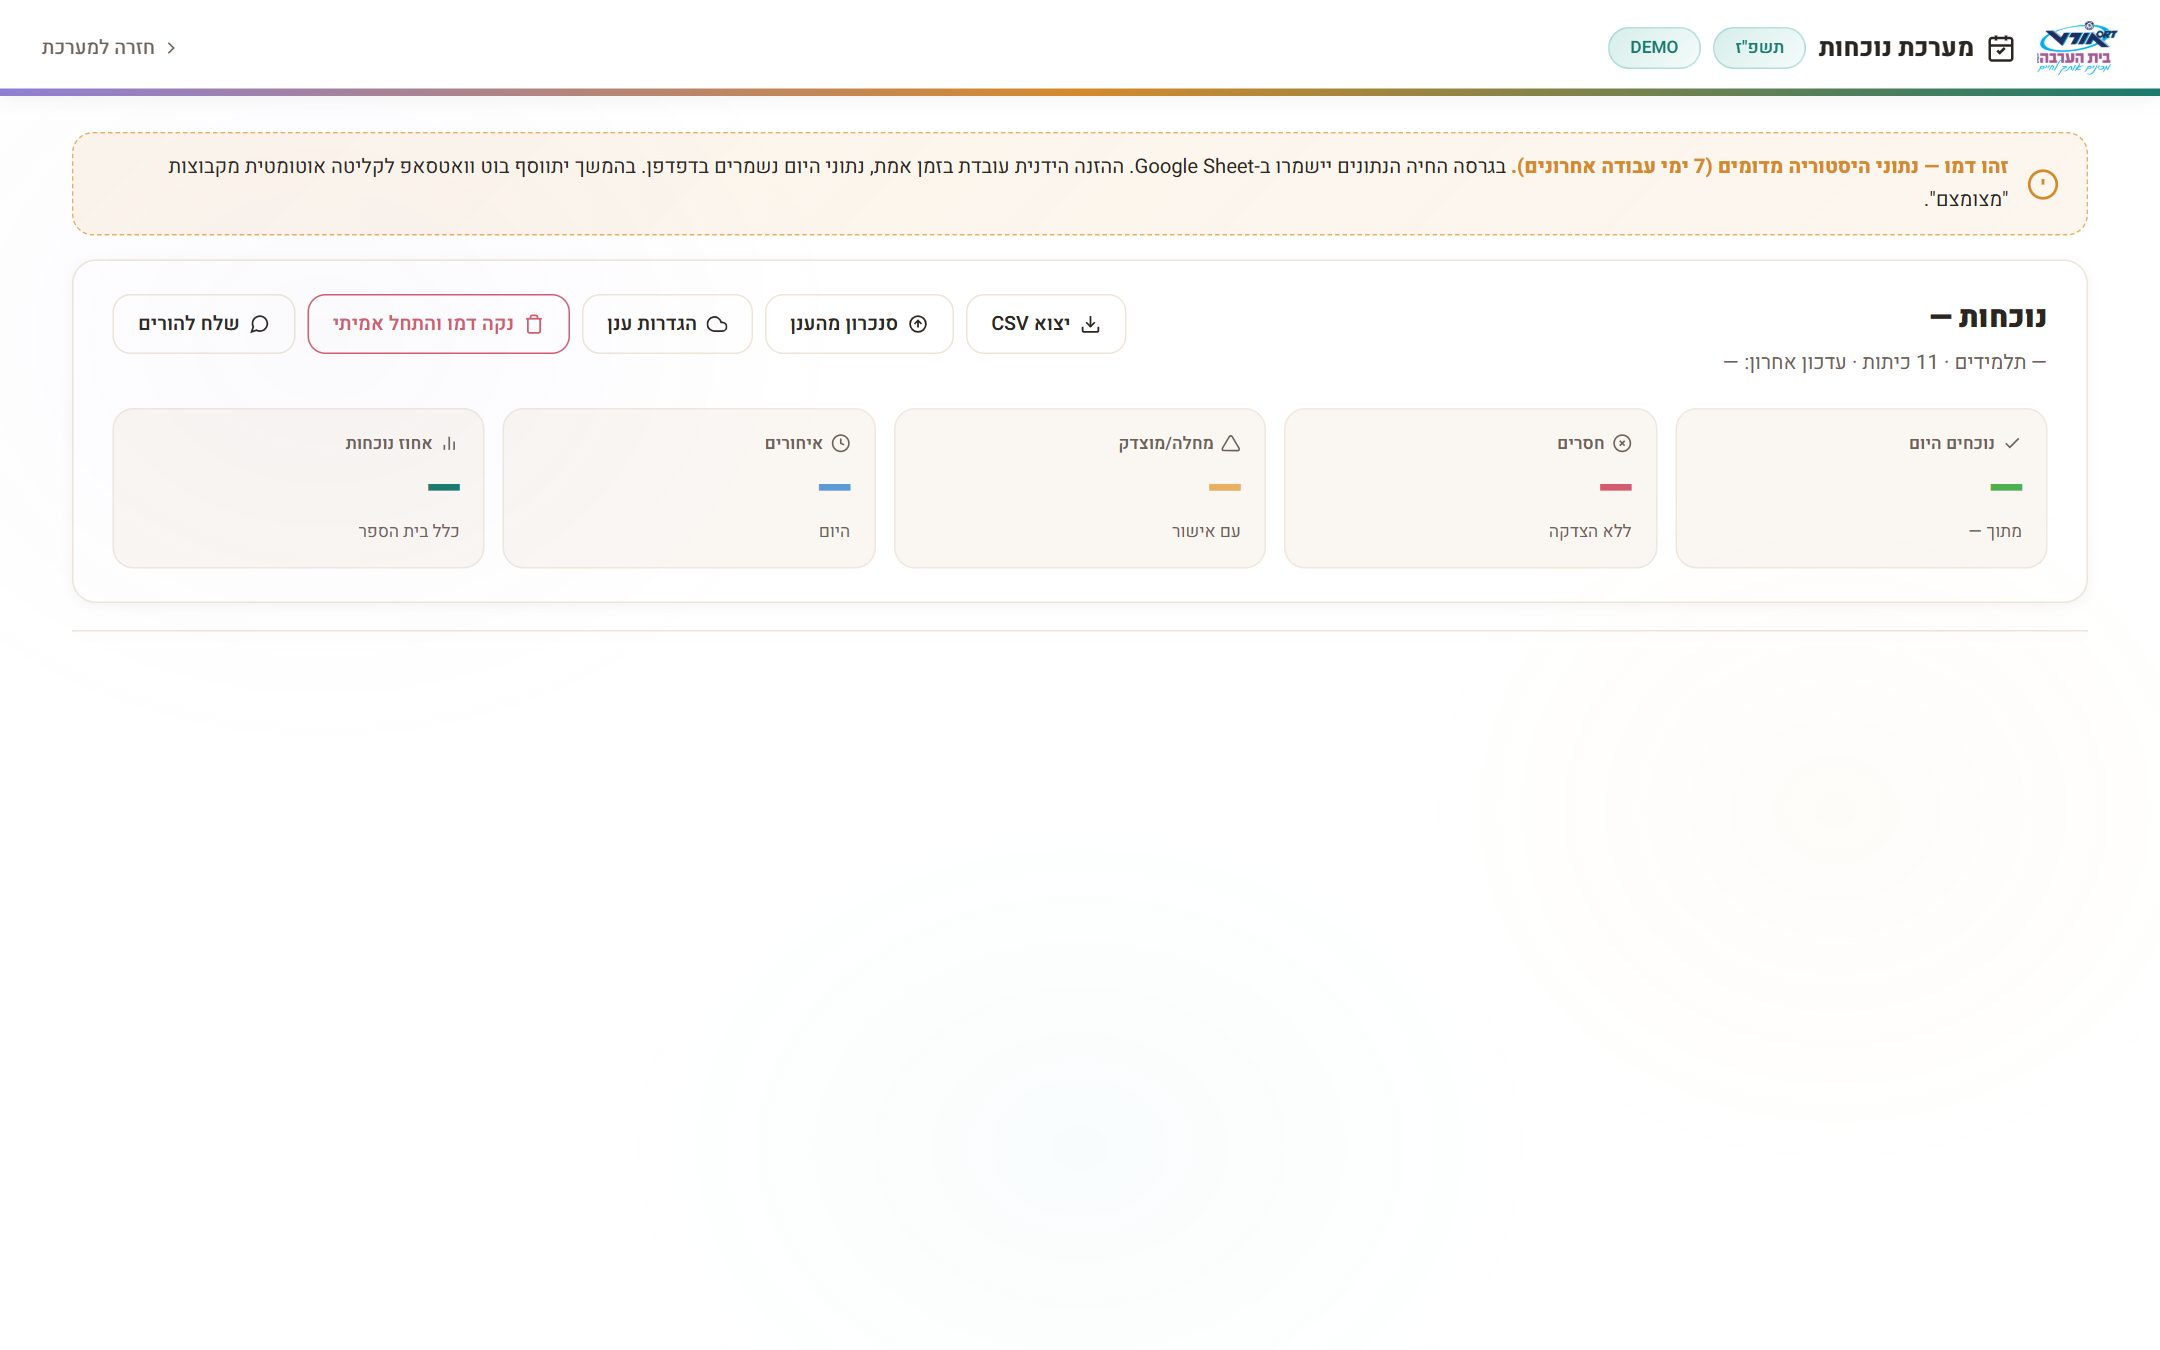
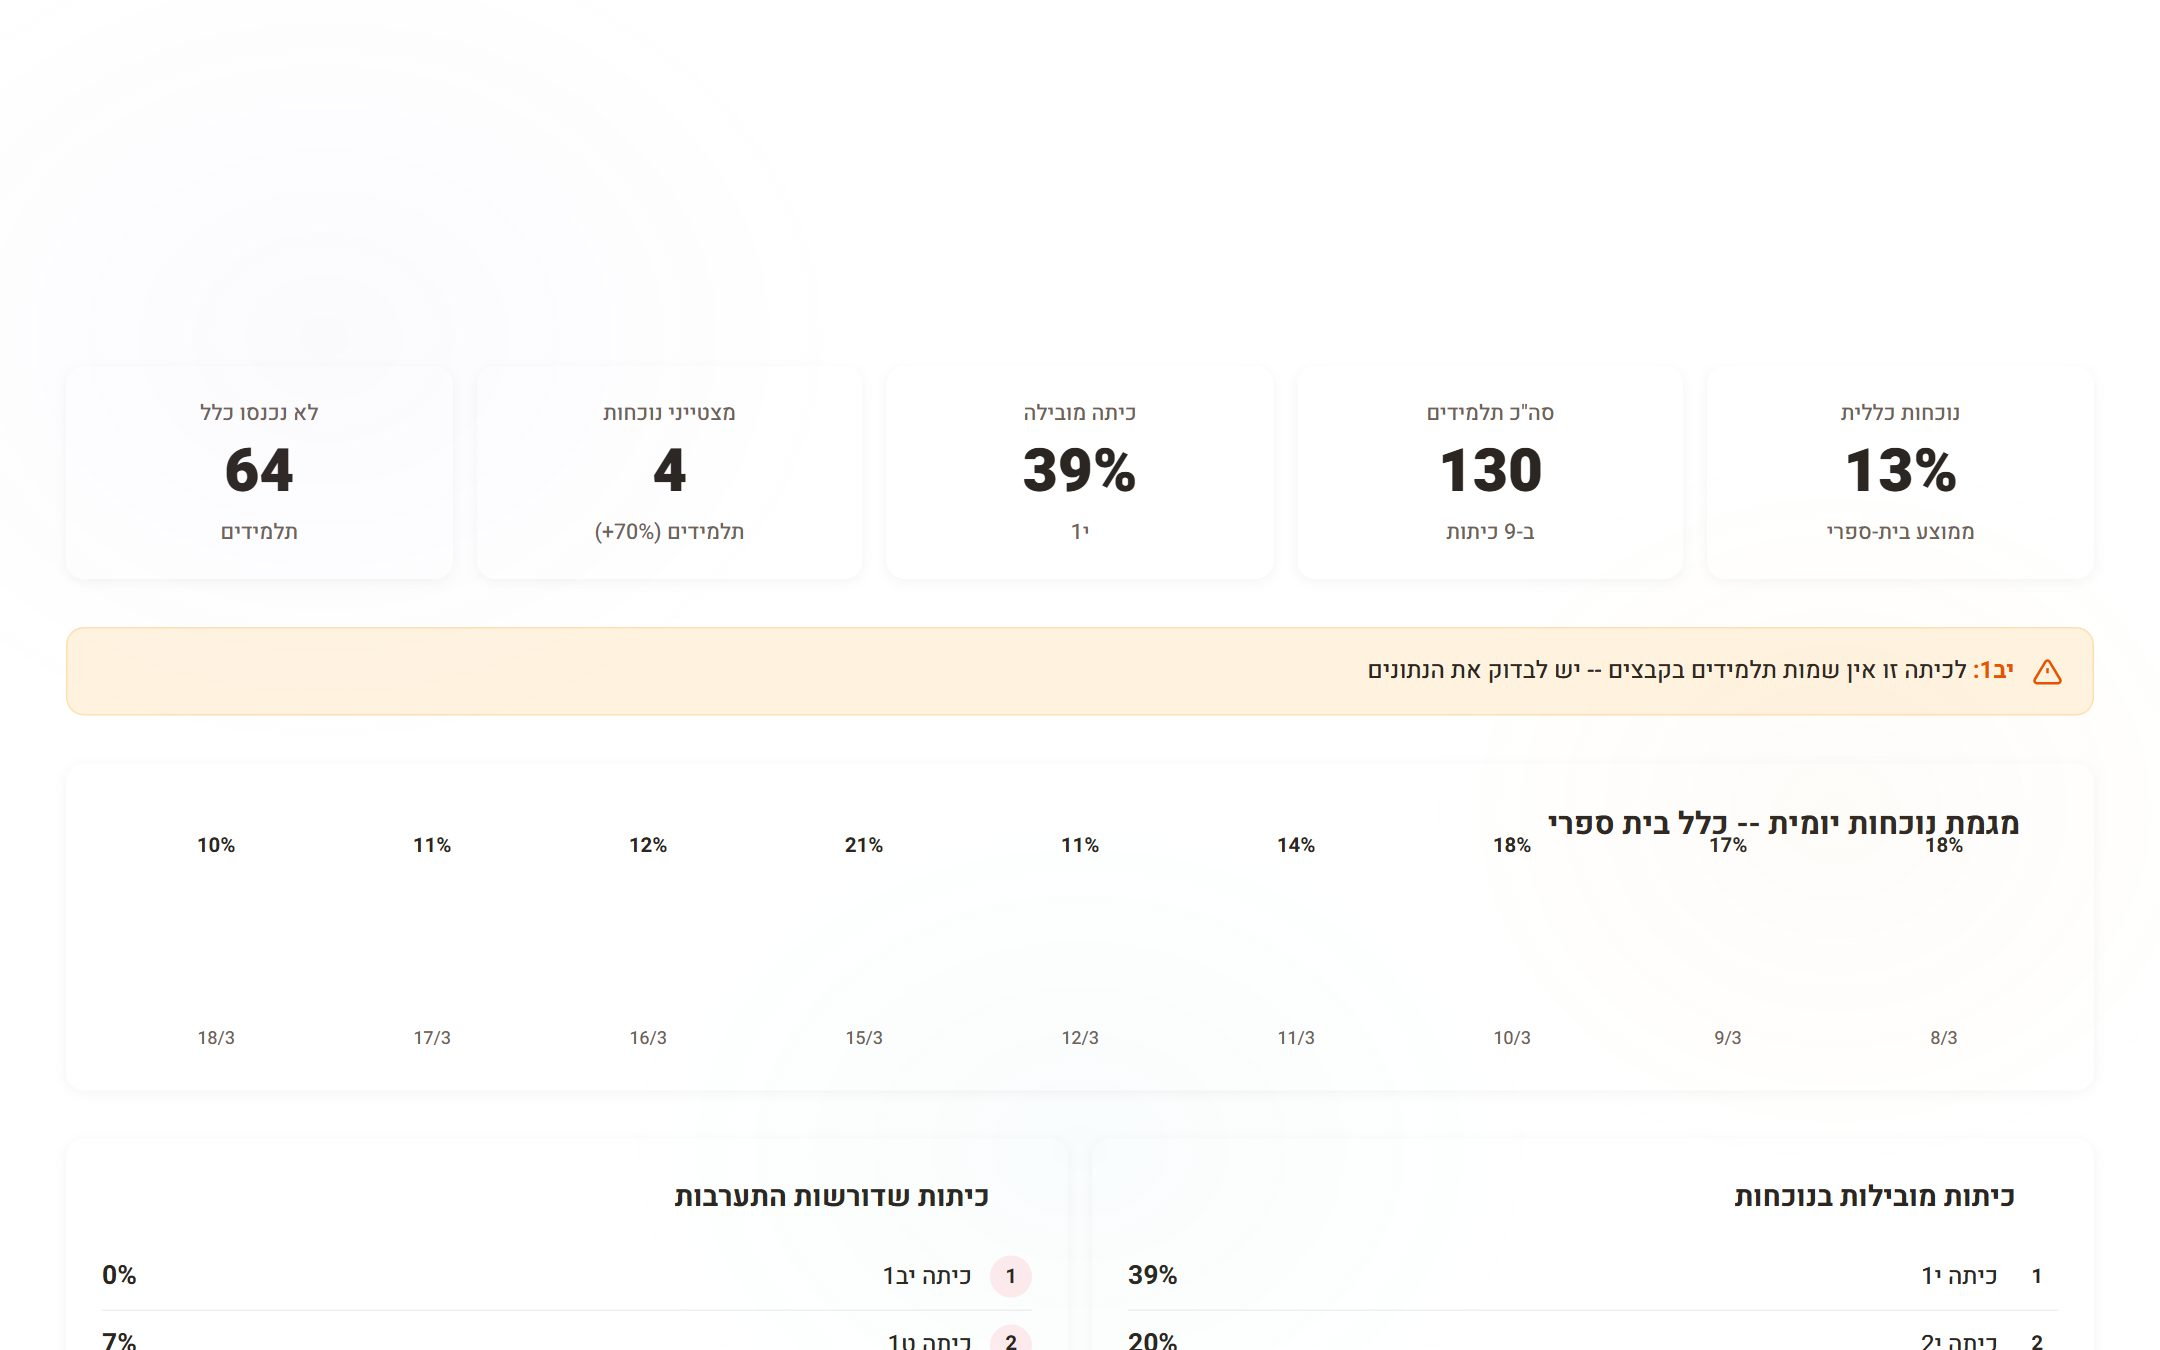
portfolio — החלפת מערכת שעות בלוח גאנט + צילום נוכחות מלא + כרטיס הדרכות
- timetable החליף ללוח גאנט שנתי (gantt.html) — תמונה מלאה ומעוצבת
  עם 11 כיתות, חגים, אירועים, צבעים, במקום שעות ריקות שלא נטענות ב-headless
- attendance.html הוחלף ל-attendance-report.html — דשבורד מלא עם
  נוכחות 13%, 130 תלמידים, מגמות יומיות ומובילות כיתתיות
- הוסף כרטיס "קורס קלוד קוד למורים ומנהלים" (13 כרטיסים בסך הכל)

diff --git a/docs/personal/portfolio/_screenshots.js b/docs/personal/portfolio/_screenshots.js
@@ -4,20 +4,47 @@ const path = require('path');
 const BASE = 'https://meytalp-dev.github.io/ort-training';
 const OUT = path.resolve('docs/personal/portfolio/screenshots');
 
+// Pages that need special handling (PIN dismissal, sub-view, longer wait, etc.)
 const targets = [
-  { id: 'timetable',      url: `${BASE}/management/timetable.html` },
-  { id: 'student-file',   url: `${BASE}/management/student-file.html` },
-  { id: 'attendance',     url: `${BASE}/management/attendance.html` },
-  { id: 'practice-exams', url: `${BASE}/practice-exams/` },
-  { id: 'counselor-hub',  url: `${BASE}/management/counselor-hub.html` },
-  { id: 'student-risk',   url: `${BASE}/management/student-risk.html` },
-  { id: 'lesson-demo',    url: `${BASE}/lessons/hitpael-nifal/` },
-  { id: 'five-dimensions',url: `${BASE}/management/five-dimensions.html` },
-  { id: 'ai-tools',       url: `${BASE}/marketing/ai-tools.html` },
-  { id: 'oti',            url: `${BASE}/autism/oti/` },
-  { id: 'hofa',           url: `${BASE}/hofa/authorities-landing.html` },
-  { id: 'morning',        url: `${BASE}/management/morning-schedule.html` },
+  { id: 'gantt',           url: `${BASE}/management/gantt.html`,              wait: 2500 },
+  { id: 'student-file',    url: `${BASE}/management/student-file.html` },
+  { id: 'attendance',      url: `${BASE}/management/attendance-report.html`,  wait: 3000 },
+  { id: 'practice-exams',  url: `${BASE}/practice-exams/` },
+  { id: 'counselor-hub',   url: `${BASE}/management/counselor-hub.html` },
+  { id: 'student-risk',    url: `${BASE}/management/student-risk.html` },
+  { id: 'lesson-demo',     url: `${BASE}/lessons/hitpael-nifal/` },
+  { id: 'five-dimensions', url: `${BASE}/management/five-dimensions.html` },
+  { id: 'ai-tools',        url: `${BASE}/marketing/ai-tools.html` },
+  { id: 'oti',             url: `${BASE}/autism/oti/` },
+  { id: 'hofa',            url: `${BASE}/hofa/authorities-landing.html` },
+  { id: 'morning',         url: `${BASE}/management/morning-schedule.html` },
+  { id: 'claude-training', url: `${BASE}/training/claude-code/landing-page.html` },
 ];
+
+async function dismissOverlays(page) {
+  await page.evaluate(() => {
+    // PIN modals
+    document.querySelectorAll('.pin-modal, [id*="pinModal" i], [class*="pin-modal" i]').forEach(el => {
+      el.style.display = 'none';
+      el.classList.remove('show');
+    });
+    // Loading spinners / overlays
+    document.querySelectorAll(
+      '.loader, .loading, [class*="loader" i], [class*="loading" i], [id*="loader" i], [id*="loading" i]'
+    ).forEach(el => {
+      const txt = (el.innerText || '').trim();
+      if (txt.length < 50) el.style.display = 'none';
+    });
+    // Hide empty-state / loading sections containing "טוען"
+    document.querySelectorAll('div, section').forEach(el => {
+      const txt = (el.innerText || '').trim();
+      if (txt === 'טוען מערכת שעות...' || /^טוען/.test(txt) && txt.length < 40) {
+        el.style.display = 'none';
+      }
+    });
+    document.body.style.overflow = 'auto';
+  });
+}
 
 (async () => {
   const browser = await puppeteer.launch({
@@ -30,7 +57,9 @@ const targets = [
     try {
       console.log(`→ ${t.id}`);
       await page.goto(t.url, { waitUntil: 'networkidle2', timeout: 30000 });
-      await new Promise(r => setTimeout(r, 1500));
+      await new Promise(r => setTimeout(r, t.wait || 1500));
+      if (t.dismissPin) await dismissOverlays(page);
+      await new Promise(r => setTimeout(r, 500));
       await page.screenshot({
         path: path.join(OUT, `${t.id}.jpg`),
         type: 'jpeg',

diff --git a/docs/personal/portfolio/index.html b/docs/personal/portfolio/index.html
@@ -697,17 +697,17 @@
   <div class="projects-grid">
 
     <article class="project">
-      <div class="project-visual" style="background-image: url('screenshots/timetable.jpg');"></div>
+      <div class="project-visual" style="background-image: url('screenshots/gantt.jpg');"></div>
       <div class="project-body">
-        <div class="project-tag">ניהול · מערכת בית ספרית</div>
-        <h4>מערכת שעות דיגיטלית</h4>
-        <p>מערכת לצפייה, עריכה ומילוי מקום במערכת השעות — כולל שליחת WhatsApp אוטומטית למורות. מחוברת ל-Google Sheet, ציון משוב 7.7/10.</p>
+        <div class="project-tag">ניהול · תכנון שנתי</div>
+        <h4>לוח גאנט שנתי</h4>
+        <p>תוכנית שנה עבור כל 11 הכיתות — חגים, אירועים, מבחנים, פולסים, טיולים — בצבעים ובמבט אחד. סנכרון אוטומטי, הדפסה, סינון לפי חודש/כיתה.</p>
         <div class="project-meta">
-          <span class="meta-pill">Google Sheets</span>
-          <span class="meta-pill">WhatsApp API</span>
-          <span class="meta-pill">Apps Script</span>
+          <span class="meta-pill">11 כיתות</span>
+          <span class="meta-pill">סנכרון יומן</span>
+          <span class="meta-pill">הדפסה</span>
         </div>
-        <a class="project-link" href="https://meytalp-dev.github.io/ort-training/management/timetable.html" target="_blank">צפייה בייצור ←</a>
+        <a class="project-link" href="https://meytalp-dev.github.io/ort-training/management/gantt.html" target="_blank">צפייה בייצור ←</a>
       </div>
     </article>
 
@@ -873,6 +873,21 @@
           <span class="meta-pill">WhatsApp</span>
         </div>
         <a class="project-link" href="https://meytalp-dev.github.io/ort-training/management/morning-schedule.html" target="_blank">צפייה בייצור ←</a>
+      </div>
+    </article>
+
+    <article class="project">
+      <div class="project-visual" style="background-image: url('screenshots/claude-training.jpg');"></div>
+      <div class="project-body">
+        <div class="project-tag">הדרכה · Claude Code</div>
+        <h4>קורס "קלוד קוד למורים ומנהלים"</h4>
+        <p>דף נחיתה + מצגת הדרכה + תוצרים. הקורס מלמד אנשי חינוך, ניהול ושיווק לבנות כלים דיגיטליים בעצמם. משוב 8.9/10, השראה 4.9/5.</p>
+        <div class="project-meta">
+          <span class="meta-pill">17 תוצרים</span>
+          <span class="meta-pill">דף נחיתה</span>
+          <span class="meta-pill">מצגת + תרגול</span>
+        </div>
+        <a class="project-link" href="https://meytalp-dev.github.io/ort-training/training/claude-code/landing-page.html" target="_blank">צפייה בקורס ←</a>
       </div>
     </article>
 
